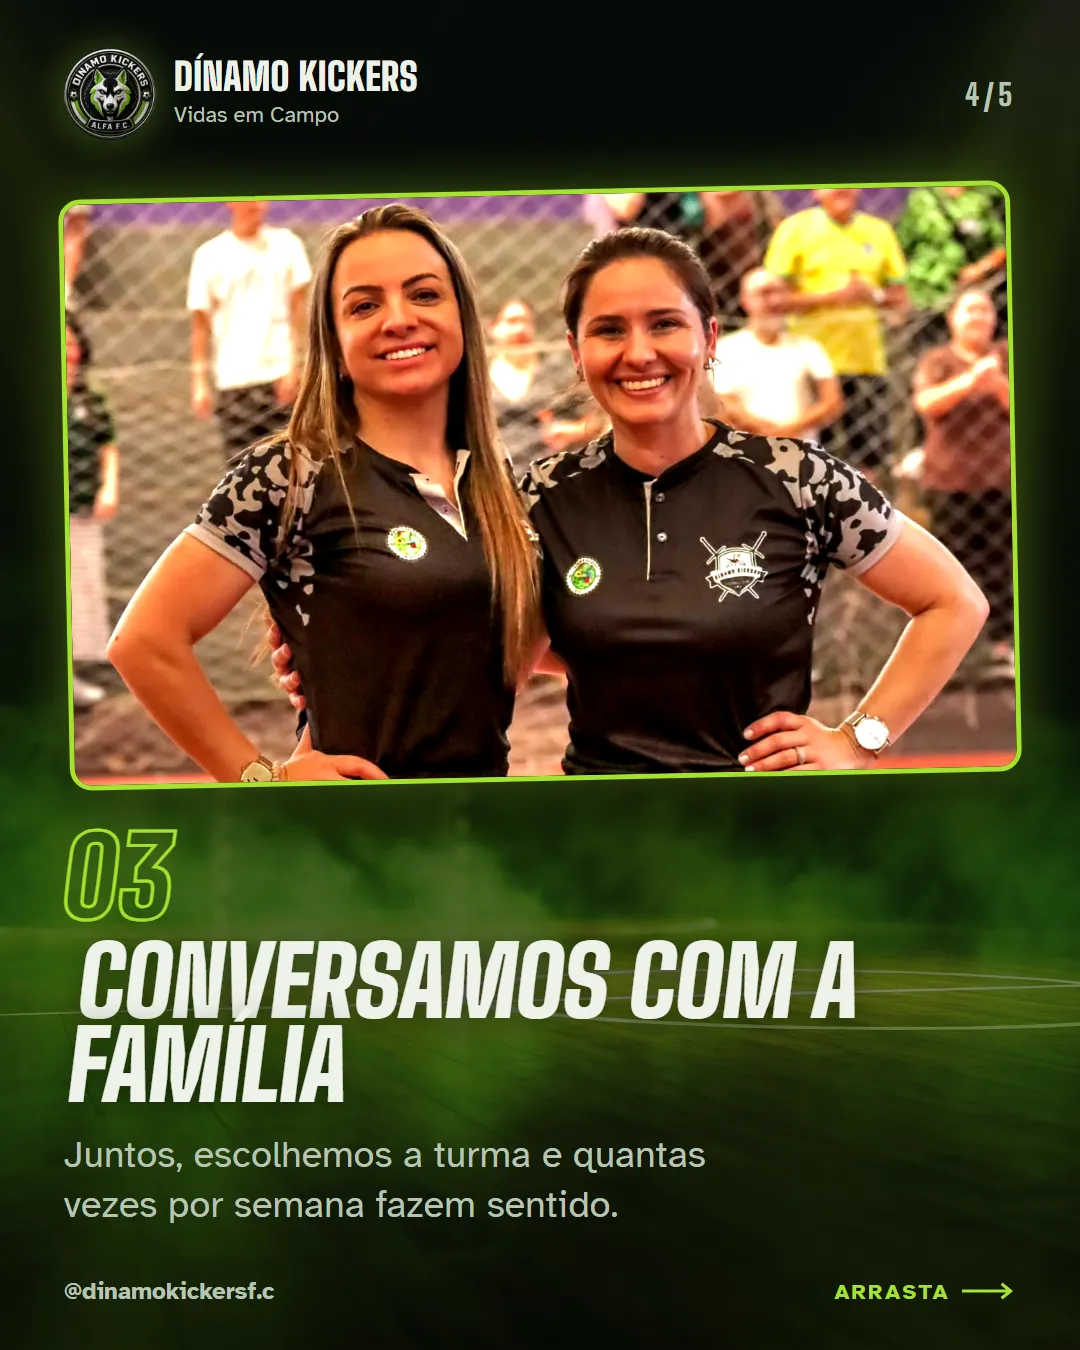
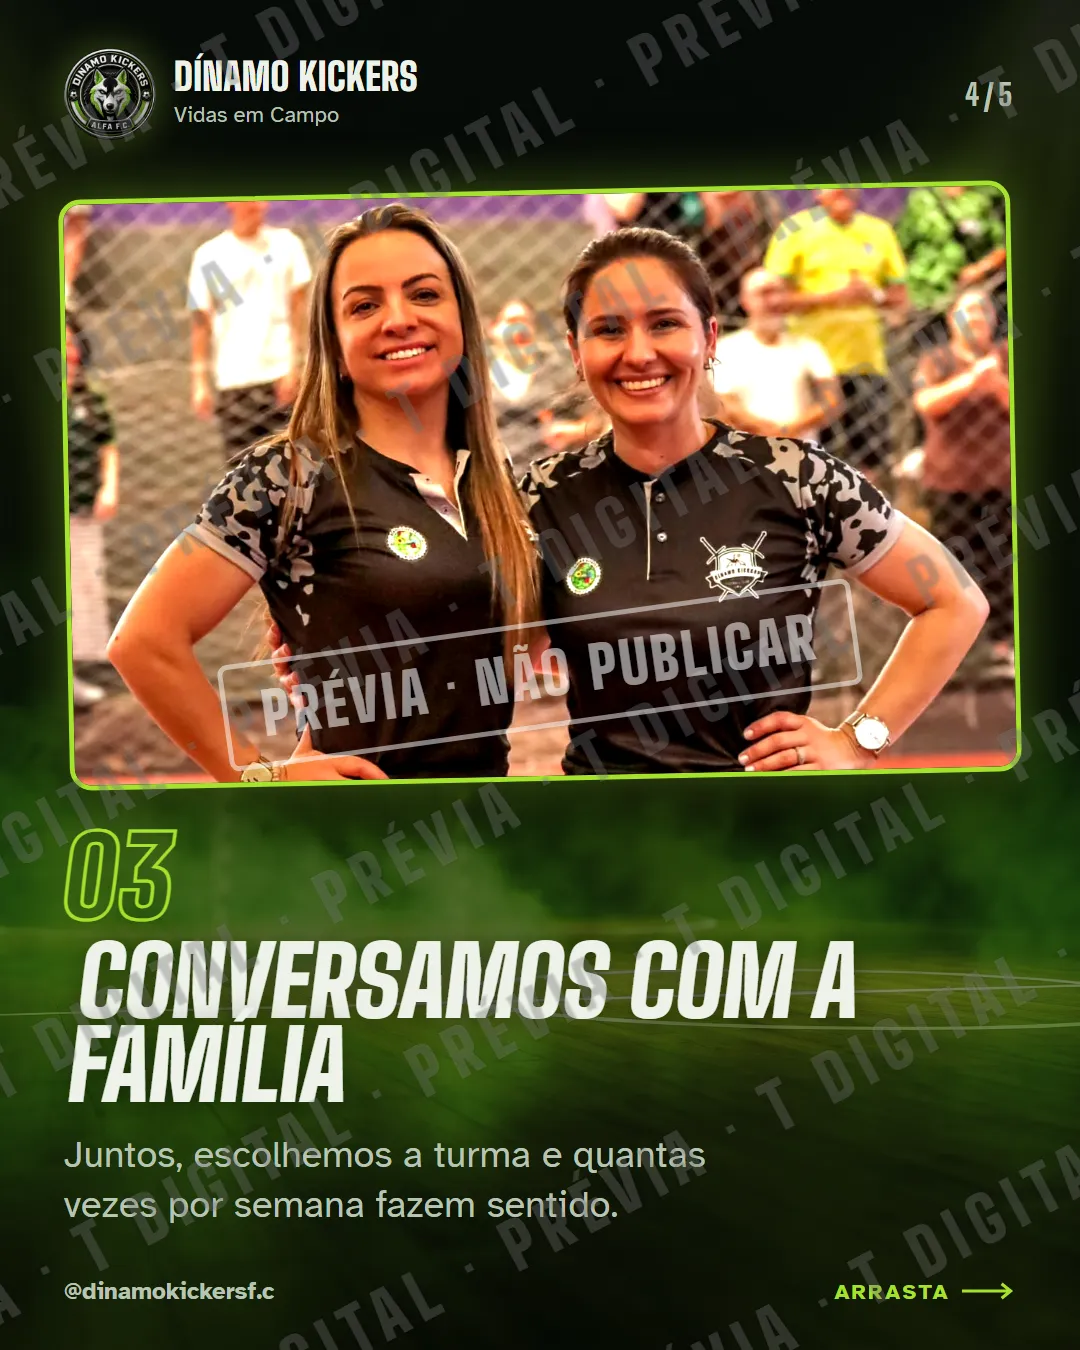
Motor: modo previa (vitrine pra prospect, sem resposta, convite no fim); Dínamo vira prévia com marca d'água

diff --git a/public/dinamo-kickers/2026-11-18-instagram/dados.js b/public/dinamo-kickers/2026-11-18-instagram/dados.js
@@ -5,28 +5,26 @@ window.DADOS = {
  "marca": "Dínamo Kickers F.C.",
  "zap": "5541997128458",
  "data": "18/11/2026",
- "final": false,
+ "final": true,
+ "previa": true,
+ "convite": {
+  "titulo": "Gostaram?",
+  "texto": "Isso pode estar no perfil de vocês junto com a página, falando a mesma língua: quem vê o post chega na página, e quem chega na página marca a aula experimental pelo WhatsApp.\nAntes de publicar, confirmamos com vocês os horários, os valores e qual WhatsApp usar.",
+  "botao": "Quero conversar sobre isso",
+  "mensagem": "Oi, Vinicius! Vimos a prévia do Instagram da Dínamo e queremos conversar."
+ },
  "secoes": [
   {
    "id": "perfil",
    "nome": "Perfil",
    "titulo": "O perfil",
-   "sub": "Nome, categoria, bio e o WhatsApp num toque.",
+   "sub": "O que o pai vê nos primeiros segundos.",
    "itens": [
     {
      "id": "1-1",
      "titulo": "O perfil arrumado",
-     "nota": "Hoje a categoria é \"Vestuário (marca)\", e quem cai no perfil lê loja de roupa. Passa a ser escolinha de futsal. O WhatsApp sai do texto da bio e vira botão e link, num toque.",
+     "nota": "Hoje a categoria do perfil é \"Vestuário (marca)\", e quem chega lê loja de roupa, não escolinha. Aqui ela vira clube esportivo, o nome ganha \"Futsal Infantil\" (é o que os pais buscam) e o WhatsApp sai do texto da bio e vira botão, num toque.",
      "livre": true,
-     "escolhas": [
-      {
-       "pergunta": "Qual WhatsApp vai no botão e no link da bio?",
-       "opcoes": [
-        "(41) 99867-6435",
-        "(41) 99618-0904"
-       ]
-      }
-     ],
      "slides": [
       {
        "src": "img/1-1-1.webp",
@@ -50,7 +48,7 @@ window.DADOS = {
       ],
       [
        "Categoria",
-       "Clube esportivo (sai \"Vestuário (marca)\")"
+       "Clube esportivo (no lugar de \"Vestuário (marca)\")"
       ],
       [
        "Bio",
@@ -58,7 +56,7 @@ window.DADOS = {
       ],
       [
        "Link",
-       "wa.me/5541998676435 (quando a página estiver no ar, o link passa a ser ela)"
+       "wa.me/5541998676435 (com a página no ar, o link passa a ser ela)"
       ],
       [
        "Título do link",
@@ -83,16 +81,7 @@ window.DADOS = {
      "titulo": "Como marcar a aula experimental",
      "etiqueta": "Post fixado",
      "ordem": "1 de 3",
-     "nota": "Lobo e loba de vocês na capa, fotos reais das aulas nos passos (só luz e cor ajustadas).",
-     "escolhas": [
-      {
-       "pergunta": "A aula experimental é gratuita?",
-       "opcoes": [
-        "Sim, pode escrever \"grátis\"",
-        "Não, fica como está"
-       ]
-      }
-     ],
+     "nota": "Hoje nenhum post fixado diz como marcar a aula. Este é o primeiro que o pai vê. Na capa, o lobo e a loba de vocês; nos passos, fotos reais das aulas, só com luz e cor ajustadas.",
      "slides": [
       {
        "src": "img/2-1-1.webp",
@@ -136,23 +125,7 @@ window.DADOS = {
      "titulo": "Turmas, horários e mensalidade",
      "etiqueta": "Post fixado",
      "ordem": "2 de 3",
-     "nota": "Horários da mensagem de 15/11. Os valores vieram do folder, com o texto de valor social.",
-     "escolhas": [
-      {
-       "pergunta": "Na sexta, 18h30, qual é a turma?",
-       "opcoes": [
-        "Sub 12+ (mensagem de 15/11)",
-        "Sub 09+ (folder)"
-       ]
-      },
-      {
-       "pergunta": "Os valores do folder (R$ 100, 130 e 140) ainda valem?",
-       "opcoes": [
-        "Valem",
-        "Mudaram (escrevo abaixo)"
-       ]
-      }
-     ],
+     "nota": "A primeira dúvida dos pais, respondida antes de perguntarem. Horários da mensagem de vocês de 15/11 e valores do folder, com o texto de valor social.",
      "slides": [
       {
        "src": "img/2-2-1.webp",
@@ -196,7 +169,7 @@ window.DADOS = {
      "titulo": "Seu filho pode vir",
      "etiqueta": "Post fixado",
      "ordem": "3 de 3",
-     "nota": "As quatro dúvidas dos pais, com a frase da Tati no fim. \"Aqui todos jogam\" é de vocês, da arte do dia do autismo.",
+     "nota": "As quatro dúvidas que mais aparecem antes da matrícula, com a frase da Tati no fim. \"Aqui todos jogam\" é de vocês, da arte do dia do autismo.",
      "slides": [
       {
        "src": "img/2-3-1.webp",

diff --git a/scripts/montar.js b/scripts/montar.js
@@ -7,7 +7,7 @@
 // aprovar.tdigital.tech/<cliente>/<nome-da-pasta>/
 //
 // O formato da pasta está no README. Em resumo:
-//   rodada.txt                 titulo, intro, data
+//   rodada.txt                 titulo, intro, data, modo (final | previa); na previa: convite, texto, botao, mensagem
 //   01 Seção/secao.txt         nome (o botão da barra), titulo, sub
 //   01 Seção/01 Peça/info.txt  titulo, etiqueta, grupo, ordem, nota, pergunta,
 //                              aprovado, formato, escolha (pode repetir)
@@ -165,8 +165,10 @@ function peca(dir, nomePasta, id) {
 }
 
 // ---------- rodada ----------
-const r = chaves(path.join(origem, "rodada.txt"), ["titulo", "título", "intro", "data", "modo"]);
-const FINAL = /final/i.test(r.modo || "");
+const r = chaves(path.join(origem, "rodada.txt"), ["titulo", "título", "intro", "data", "modo", "convite", "texto", "botao", "botão", "mensagem"]);
+// modo: previa = vitrine pra prospect: sem resposta, rótulo "Prévia" e convite no fim (convite, texto, botao, mensagem)
+const PREVIA = /pr[eé]via/i.test(r.modo || "");
+const FINAL = /final/i.test(r.modo || "") || PREVIA;
 const dataPasta = rodada.match(/^(\d{4})-(\d{2})-(\d{2})/);
 const DADOS = {
   cliente: slug,
@@ -175,6 +177,8 @@ const DADOS = {
   zap: cliente.whatsapp || config.whatsapp,
   data: r.data || (dataPasta ? `${dataPasta[3]}/${dataPasta[2]}/${dataPasta[1]}` : ""),
   final: FINAL,
+  previa: PREVIA,
+  convite: PREVIA ? { titulo: r.convite || "Gostou?", texto: r.texto || "", botao: r.botao || r["botão"] || "Falar no WhatsApp", mensagem: r.mensagem || "" } : undefined,
   secoes: subpastas(origem).map((nomeSec, s) => {
     const dir = path.join(origem, nomeSec);
     const sx = chaves(path.join(dir, "secao.txt"), ["nome", "titulo", "título", "sub"]);
@@ -194,8 +198,8 @@ const esc = s => String(s ?? "").replace(/&/g, "&amp;").replace(/</g, "&lt;").re
 const negrito = s => esc(s).replace(/\*\*(.+?)\*\*/g, "<b>$1</b>");
 const estilo = cliente.estilo || {};
 const html = ler(path.join(RAIZ, "motor/index.html"))
-  .replace("· Aprovação do material", FINAL ? "· Versão final" : "· Aprovação do material")
-  .replace("Material para aprovação · ", FINAL ? "Versão final · " : "Material para aprovação · ")
+  .replace("· Aprovação do material", PREVIA ? "· Prévia" : FINAL ? "· Versão final" : "· Aprovação do material")
+  .replace("Material para aprovação · ", PREVIA ? "Prévia · " : FINAL ? "Versão final · " : "Material para aprovação · ")
   .replaceAll("{{nome}}", esc(cliente.nome))
   .replaceAll("{{fundo}}", esc(estilo["--fundo"] || "#faf8f5"))
   .replaceAll("{{fontes}}", cliente.fontes || "family=Inter:wght@400;500;600")

diff --git a/public/dinamo-kickers/2026-11-18-instagram/index.html b/public/dinamo-kickers/2026-11-18-instagram/index.html
@@ -4,7 +4,7 @@
 <meta charset="utf-8">
 <meta name="viewport" content="width=device-width, initial-scale=1, viewport-fit=cover">
 <meta name="robots" content="noindex, nofollow">
-<title>Dínamo Kickers · Aprovação do material</title>
+<title>Dínamo Kickers · Prévia</title>
 <meta name="theme-color" content="#eef1ea">
 <link rel="preconnect" href="https://fonts.googleapis.com">
 <link rel="preconnect" href="https://fonts.gstatic.com" crossorigin>
@@ -16,9 +16,9 @@
 
 <header class="topo">
   <img class="logo" src="logo.png" alt="Dínamo Kickers">
-  <p class="olho">Material para aprovação · <span id="data"></span></p>
-  <h1>Instagram da Dínamo</h1>
-  <p class="intro">O começo do Instagram novo: o <b>perfil arrumado</b> e os <b>3 posts que ficam fixados no topo</b>. Quem chega no perfil entende em segundos o que é a Dínamo, pra quem é e como marcar a aula experimental. Tudo com os lobos e as cores de vocês.</p>
+  <p class="olho">Prévia · <span id="data"></span></p>
+  <h1>Prévia do Instagram da Dínamo</h1>
+  <p class="intro">Uma <b>demonstração</b> que a T Digital montou pra vocês verem como o Instagram da Dínamo pode ficar, feita com os lobos, as cores e as fotos que vocês mandaram. <b>Nada foi publicado nem alterado no perfil de vocês.</b> Aqui estão o perfil arrumado e os 3 posts que ficariam fixados no topo, respondendo o que os pais mais perguntam antes de matricular.</p>
   <ol class="como">
     <li>Arraste a imagem pro lado pra ver as versões. Toque nela pra ampliar.</li>
     <li>Em cada peça, toque em <b>Aprovado</b> ou <b>Quero mudar</b>.</li>
@@ -46,7 +46,7 @@
   <p class="fim-obs">Dá pra enviar mesmo sem responder tudo. As respostas ficam salvas neste celular: se fechar a página, é só abrir de novo.</p>
 </section>
 
-<footer class="rodape">Preparado pela Trentini Digital pra T Digital</footer>
+<footer class="rodape">Preparado pela Trentini Digital pra Dínamo Kickers</footer>
 
 <div class="zoom" id="zoom" hidden>
   <button class="zoom-x" id="zoom-x" type="button" aria-label="Fechar">×</button>

diff --git a/motor/app.js b/motor/app.js
@@ -13,6 +13,19 @@
     $(".olho").firstChild.textContent = "Versão final · ";
     $(".como").innerHTML = "<li>Arraste a imagem pro lado pra ver todas as telas. Toque nela pra ampliar.</li><li>Toque em <b>Ver a legenda</b> pra ler o texto que vai com cada post.</li>";
   }
+  // modo: previa (rodada.txt): vitrine pra prospect, sem resposta, com convite pro WhatsApp no fim
+  if (D.previa) {
+    document.title = document.title.replace("Versão final", "Prévia");
+    $(".olho").firstChild.textContent = "Prévia · ";
+    const c = D.convite || {};
+    const sec = document.createElement("section");
+    sec.className = "convite"; sec.id = "convite";
+    const e = s => String(s ?? "").replace(/&/g, "&amp;").replace(/</g, "&lt;").replace(/>/g, "&gt;");
+    sec.innerHTML = `<h2>${e(c.titulo)}</h2>${(c.texto || "").split(/\n/).map(p => `<p>${e(p)}</p>`).join("")}
+      <a class="btn-zap" target="_blank" rel="noopener" href="https://wa.me/${D.zap}?text=${encodeURIComponent(c.mensagem || "")}">
+      <svg viewBox="0 0 24 24" aria-hidden="true"><path fill="currentColor" d="M12 2a10 10 0 0 0-8.6 15.1L2 22l5-1.3A10 10 0 1 0 12 2Zm0 18.2a8.2 8.2 0 0 1-4.2-1.2l-.3-.2-3 .8.8-2.9-.2-.3A8.2 8.2 0 1 1 12 20.2Z"/></svg>${e(c.botao)}</a>`;
+    $("#conteudo").after(sec);
+  }
   const esc = s => String(s ?? "").replace(/&/g, "&amp;").replace(/</g, "&lt;").replace(/>/g, "&gt;").replace(/"/g, "&quot;");
   const link = (texto, url) => url ? `<a href="${esc(url)}" target="_blank" rel="noopener">${esc(texto)}</a>` : esc(texto);
 

diff --git a/public/dinamo-kickers/2026-11-18-instagram/app.js b/public/dinamo-kickers/2026-11-18-instagram/app.js
@@ -13,6 +13,19 @@
     $(".olho").firstChild.textContent = "Versão final · ";
     $(".como").innerHTML = "<li>Arraste a imagem pro lado pra ver todas as telas. Toque nela pra ampliar.</li><li>Toque em <b>Ver a legenda</b> pra ler o texto que vai com cada post.</li>";
   }
+  // modo: previa (rodada.txt): vitrine pra prospect, sem resposta, com convite pro WhatsApp no fim
+  if (D.previa) {
+    document.title = document.title.replace("Versão final", "Prévia");
+    $(".olho").firstChild.textContent = "Prévia · ";
+    const c = D.convite || {};
+    const sec = document.createElement("section");
+    sec.className = "convite"; sec.id = "convite";
+    const e = s => String(s ?? "").replace(/&/g, "&amp;").replace(/</g, "&lt;").replace(/>/g, "&gt;");
+    sec.innerHTML = `<h2>${e(c.titulo)}</h2>${(c.texto || "").split(/\n/).map(p => `<p>${e(p)}</p>`).join("")}
+      <a class="btn-zap" target="_blank" rel="noopener" href="https://wa.me/${D.zap}?text=${encodeURIComponent(c.mensagem || "")}">
+      <svg viewBox="0 0 24 24" aria-hidden="true"><path fill="currentColor" d="M12 2a10 10 0 0 0-8.6 15.1L2 22l5-1.3A10 10 0 1 0 12 2Zm0 18.2a8.2 8.2 0 0 1-4.2-1.2l-.3-.2-3 .8.8-2.9-.2-.3A8.2 8.2 0 1 1 12 20.2Z"/></svg>${e(c.botao)}</a>`;
+    $("#conteudo").after(sec);
+  }
   const esc = s => String(s ?? "").replace(/&/g, "&amp;").replace(/</g, "&lt;").replace(/>/g, "&gt;").replace(/"/g, "&quot;");
   const link = (texto, url) => url ? `<a href="${esc(url)}" target="_blank" rel="noopener">${esc(texto)}</a>` : esc(texto);
 

diff --git a/motor/style.css b/motor/style.css
@@ -168,3 +168,9 @@ dl.campos dd { margin: 0; color: var(--tinta); white-space: pre-line; }
 /* modo: final (rodada.txt): só a versão final, sem resposta */
 body.final .progresso, body.final .fim, body.final .status { display: none; }
 body.final .chips small { display: none; }
+
+/* modo: previa (rodada.txt): convite no fim, no lugar do envio das respostas */
+.convite { max-width: 600px; margin: 48px auto 0; padding: 24px 16px 8px; border-top: 1px solid var(--linha); }
+.convite h2 { margin: 0 0 10px; font: 600 30px/1.1 var(--serif); color: var(--tinta); }
+.convite p { margin: 0 0 10px; color: var(--corpo); line-height: 1.5; }
+.convite .btn-zap { text-decoration: none; margin-top: 18px; }

diff --git a/public/dinamo-kickers/2026-11-18-instagram/style.css b/public/dinamo-kickers/2026-11-18-instagram/style.css
@@ -168,3 +168,9 @@ dl.campos dd { margin: 0; color: var(--tinta); white-space: pre-line; }
 /* modo: final (rodada.txt): só a versão final, sem resposta */
 body.final .progresso, body.final .fim, body.final .status { display: none; }
 body.final .chips small { display: none; }
+
+/* modo: previa (rodada.txt): convite no fim, no lugar do envio das respostas */
+.convite { max-width: 600px; margin: 48px auto 0; padding: 24px 16px 8px; border-top: 1px solid var(--linha); }
+.convite h2 { margin: 0 0 10px; font: 600 30px/1.1 var(--serif); color: var(--tinta); }
+.convite p { margin: 0 0 10px; color: var(--corpo); line-height: 1.5; }
+.convite .btn-zap { text-decoration: none; margin-top: 18px; }

diff --git a/README.md b/README.md
@@ -62,6 +62,12 @@ intro: Texto curto do topo. **Negrito** assim.
 data: 14/10/2026            (sem isso, sai do nome da pasta)
 modo: final                 (opcional) página só pra mostrar a versão final: sem
                             Aprovado / Quero mudar, perguntas, escolhas nem WhatsApp
+modo: previa                (opcional) vitrine pra prospect: igual à final, com o rótulo
+                            "Prévia" e um convite no fim com botão de WhatsApp:
+convite: Gostaram?          título do convite
+texto: Uma ou mais linhas.  texto do convite
+botao: Quero conversar      o rótulo do botão
+mensagem: Oi! Vi a prévia   o texto que já vem escrito no WhatsApp
 ```
 
 **secao.txt** (opcional)
